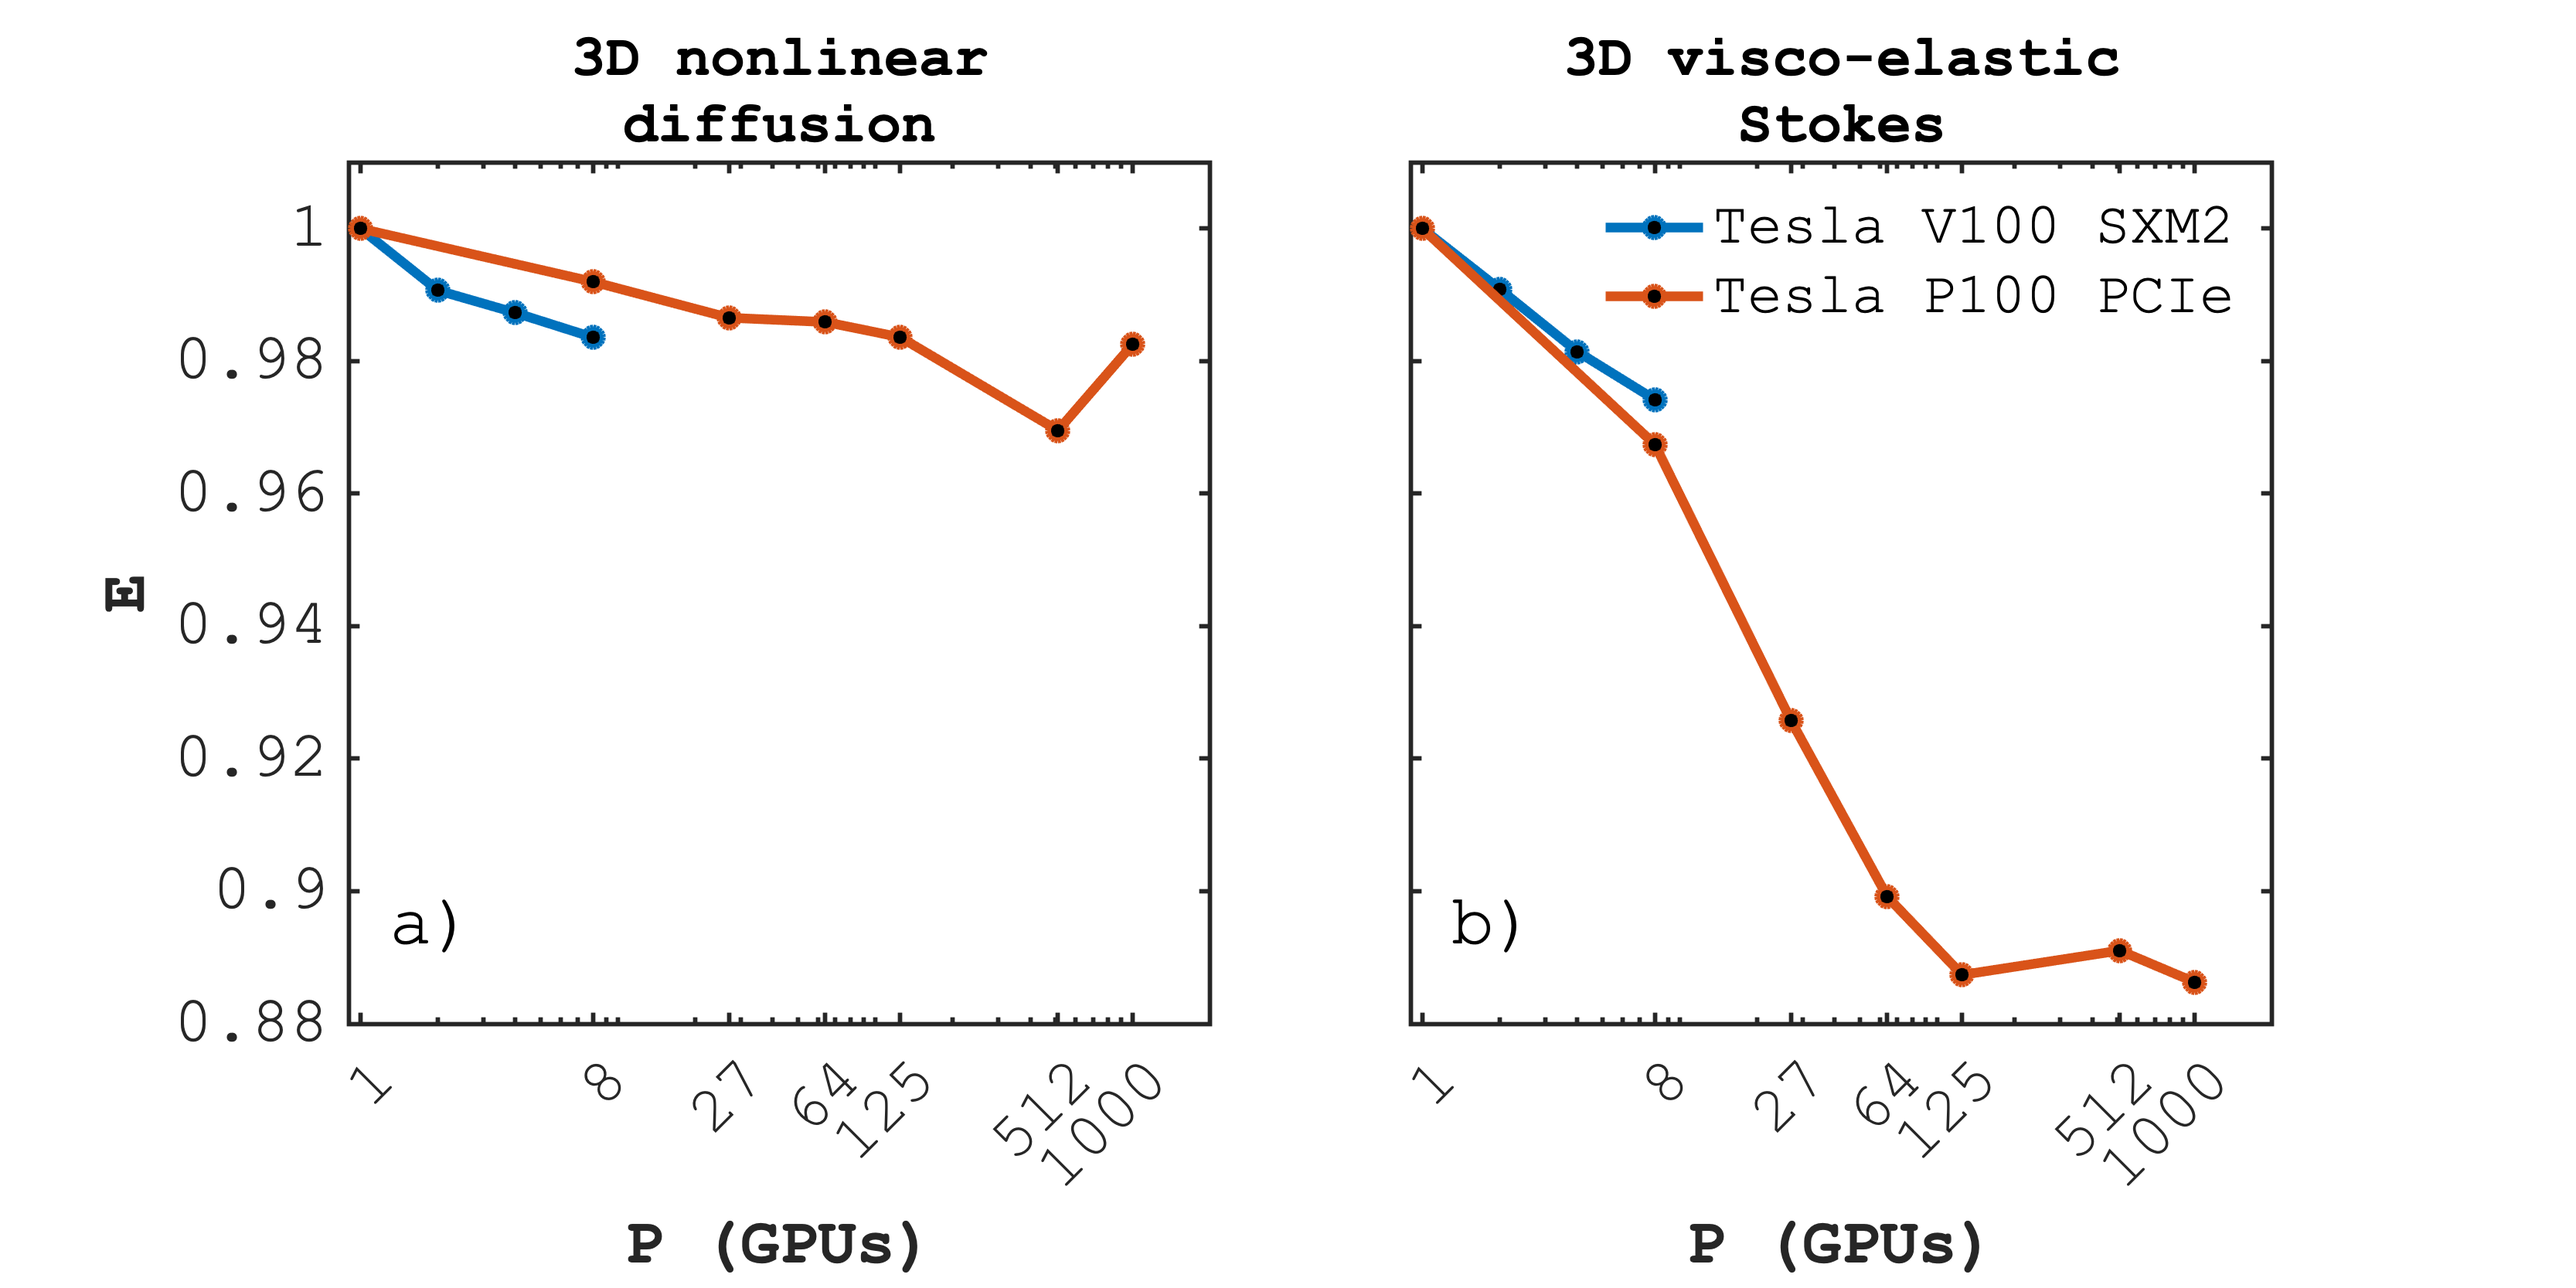
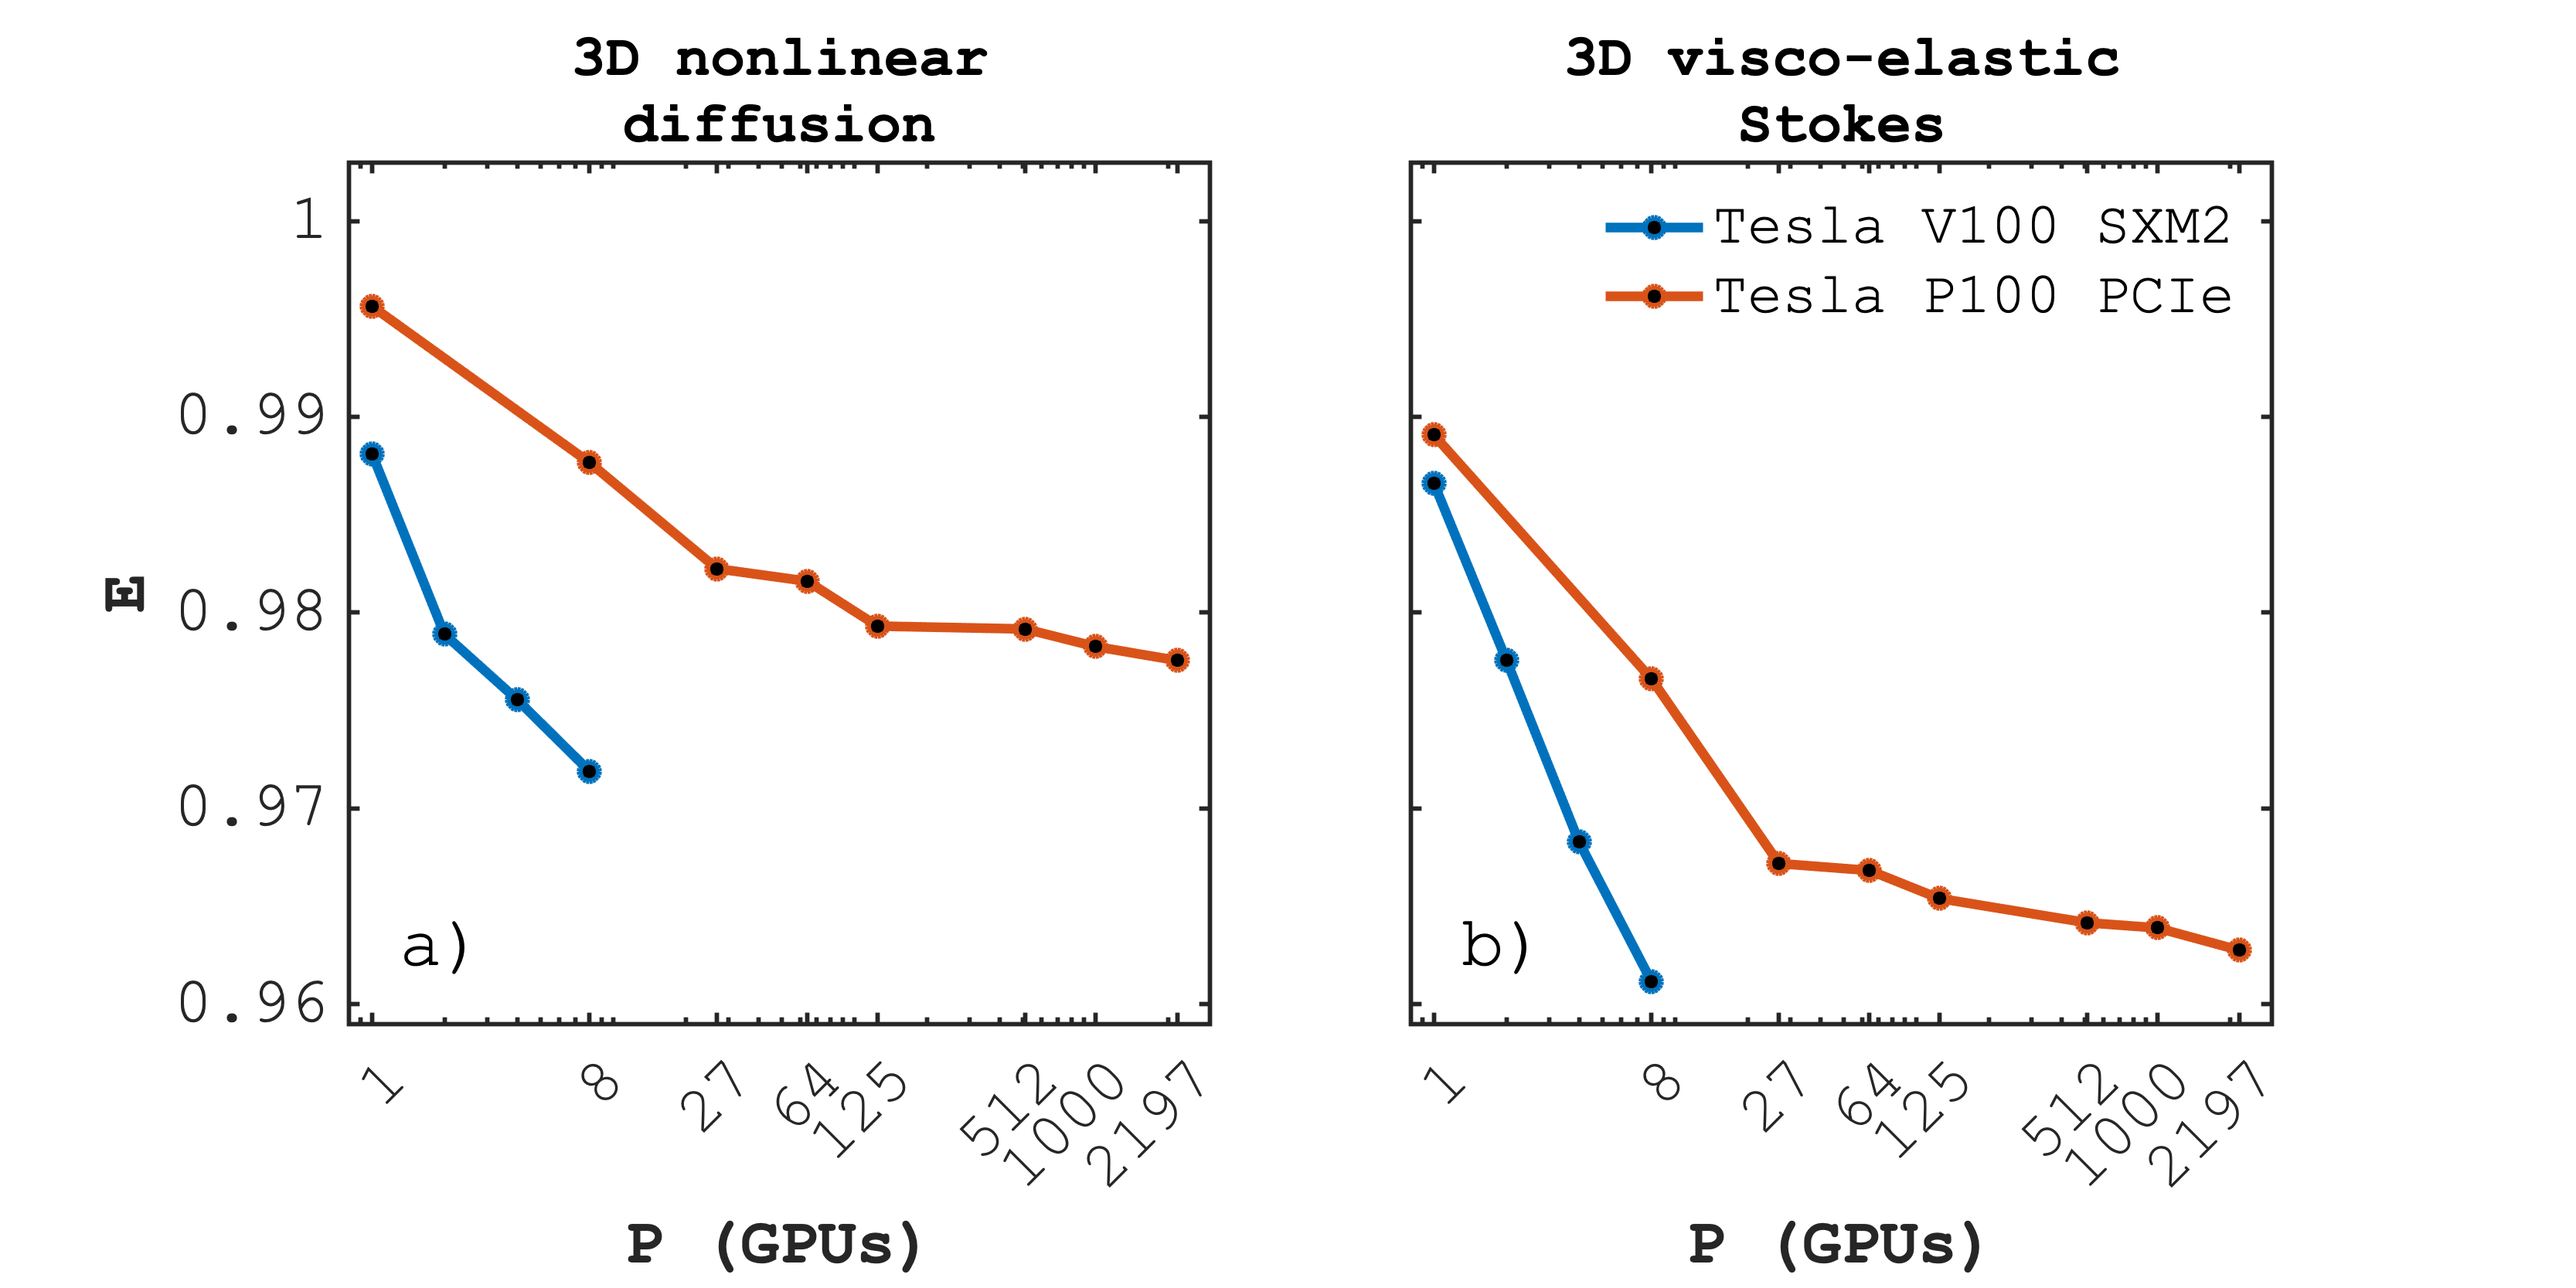
UPdate daint scaling.

diff --git a/visu/viz_perf_stokes.m b/visu/viz_perf_stokes.m
@@ -35,9 +35,9 @@ stokes_3D_mxpu_octo_2  = average_exp(stokes_3D_mxpu_octo, nrep, my_type);
 stokes_3D_mxpu_volta_2 = average_exp(stokes_3D_mxpu_volta, nrep, my_type);
 stokes_3D_mxpu_daint_2 = average_exp(stokes_3D_mxpu_daint, nrep1, my_type);
 
-diff_3D_octo_2  = average_exp(diff_3D_octo, nrep, my_type);
-diff_3D_volta_2 = average_exp(diff_3D_volta, nrep, my_type);
-diff_3D_daint_2 = average_exp(diff_3D_daint, nrep2, my_type);
+% diff_3D_octo_2  = average_exp(diff_3D_octo, nrep, my_type);
+% diff_3D_volta_2 = average_exp(diff_3D_volta, nrep, my_type);
+% diff_3D_daint_2 = average_exp(diff_3D_daint, nrep2, my_type);
 diff_3D_mxpu_octo_2  = average_exp(diff_3D_mxpu_octo, nrep, my_type);
 diff_3D_mxpu_volta_2 = average_exp(diff_3D_mxpu_volta, nrep, my_type);
 diff_3D_mxpu_daint_2 = average_exp(diff_3D_mxpu_daint, nrep1, my_type);
@@ -46,15 +46,21 @@ T_peak_volta = 840;
 T_peak_octo  = 254;
 T_peak_daint = 561;
 
+% no hide_comm perfs
+single_daint_diff   = 315.6;
+single_daint_stokes = 210.2;
+single_volta_diff   = 481.1;
+single_volta_stokes = 334.1;
+
 FS = 20;
 mylim = [0 870];
 ylab = 790;
 
-mylim2 = [0.88 1.01];
-mylimx = [0.9 2e3];
-ylab2 = 0.895;
+mylim2 = [0.959 1.003];
+mylimx = [0.8 3.e3];
+ylab2 = 0.963;
 
-fig1 = 1;
+fig1 = 0;
 fig2 = 1;
 
 %%
@@ -106,8 +112,8 @@ if fig2==1
 figure(2),clf,set(gcf,'color','white','pos',[1400 10 800 400])
 sp1 = subplot(121);
 % diff_3D_mxpu_octo_2(1,:),diff_3D_mxpu_octo_2(end,:)./diff_3D_mxpu_octo_2(end,1), '-o', ...
-semilogx(diff_3D_mxpu_volta_2(1,:),diff_3D_mxpu_volta_2(end,:)./diff_3D_mxpu_volta_2(end,1), '-o', ...
-         diff_3D_mxpu_daint_2(1,:),diff_3D_mxpu_daint_2(end,:)./diff_3D_mxpu_daint_2(end,1), '-o', ...
+semilogx(diff_3D_mxpu_volta_2(1,:),diff_3D_mxpu_volta_2(end,:)./single_volta_diff, '-o', ...
+         diff_3D_mxpu_daint_2(1,:),diff_3D_mxpu_daint_2(end,:)./single_daint_diff, '-o', ...
         'linewidth',3, 'MarkerFaceColor','k'), axis square, set(gca, 'fontsize',FS, 'linewidth',1.4)
 title({'3D nonlinear'; 'diffusion'},'fontsize',FS-2)
 ylabel({' ';'\bf{E}'}, 'fontsize',FS)
@@ -122,8 +128,8 @@ text(1.3,ylab2,'a)','fontsize',FS+2,'fontname','Courier')
 
 sp2 = subplot(122);
 % stokes_3D_mxpu_octo_2(1,:),stokes_3D_mxpu_octo_2(end,:)./stokes_3D_mxpu_octo_2(end,1), '-o', ...
-semilogx(stokes_3D_mxpu_volta_2(1,:),stokes_3D_mxpu_volta_2(end,:)./stokes_3D_mxpu_volta_2(end,1), '-o', ...
-         stokes_3D_mxpu_daint_2(1,:),stokes_3D_mxpu_daint_2(end,:)./stokes_3D_mxpu_daint_2(end,1), '-o', ...
+semilogx(stokes_3D_mxpu_volta_2(1,:),stokes_3D_mxpu_volta_2(end,:)./single_volta_stokes, '-o', ...
+         stokes_3D_mxpu_daint_2(1,:),stokes_3D_mxpu_daint_2(end,:)./single_daint_stokes, '-o', ...
      'linewidth',3, 'MarkerFaceColor','k'), axis square, set(gca, 'fontsize',FS, 'linewidth',1.4)
 title({'3D visco-elastic'; 'Stokes'},'fontsize',FS-2)
 % ylabel({' ';'\bf{E}'}, 'fontsize',FS)
